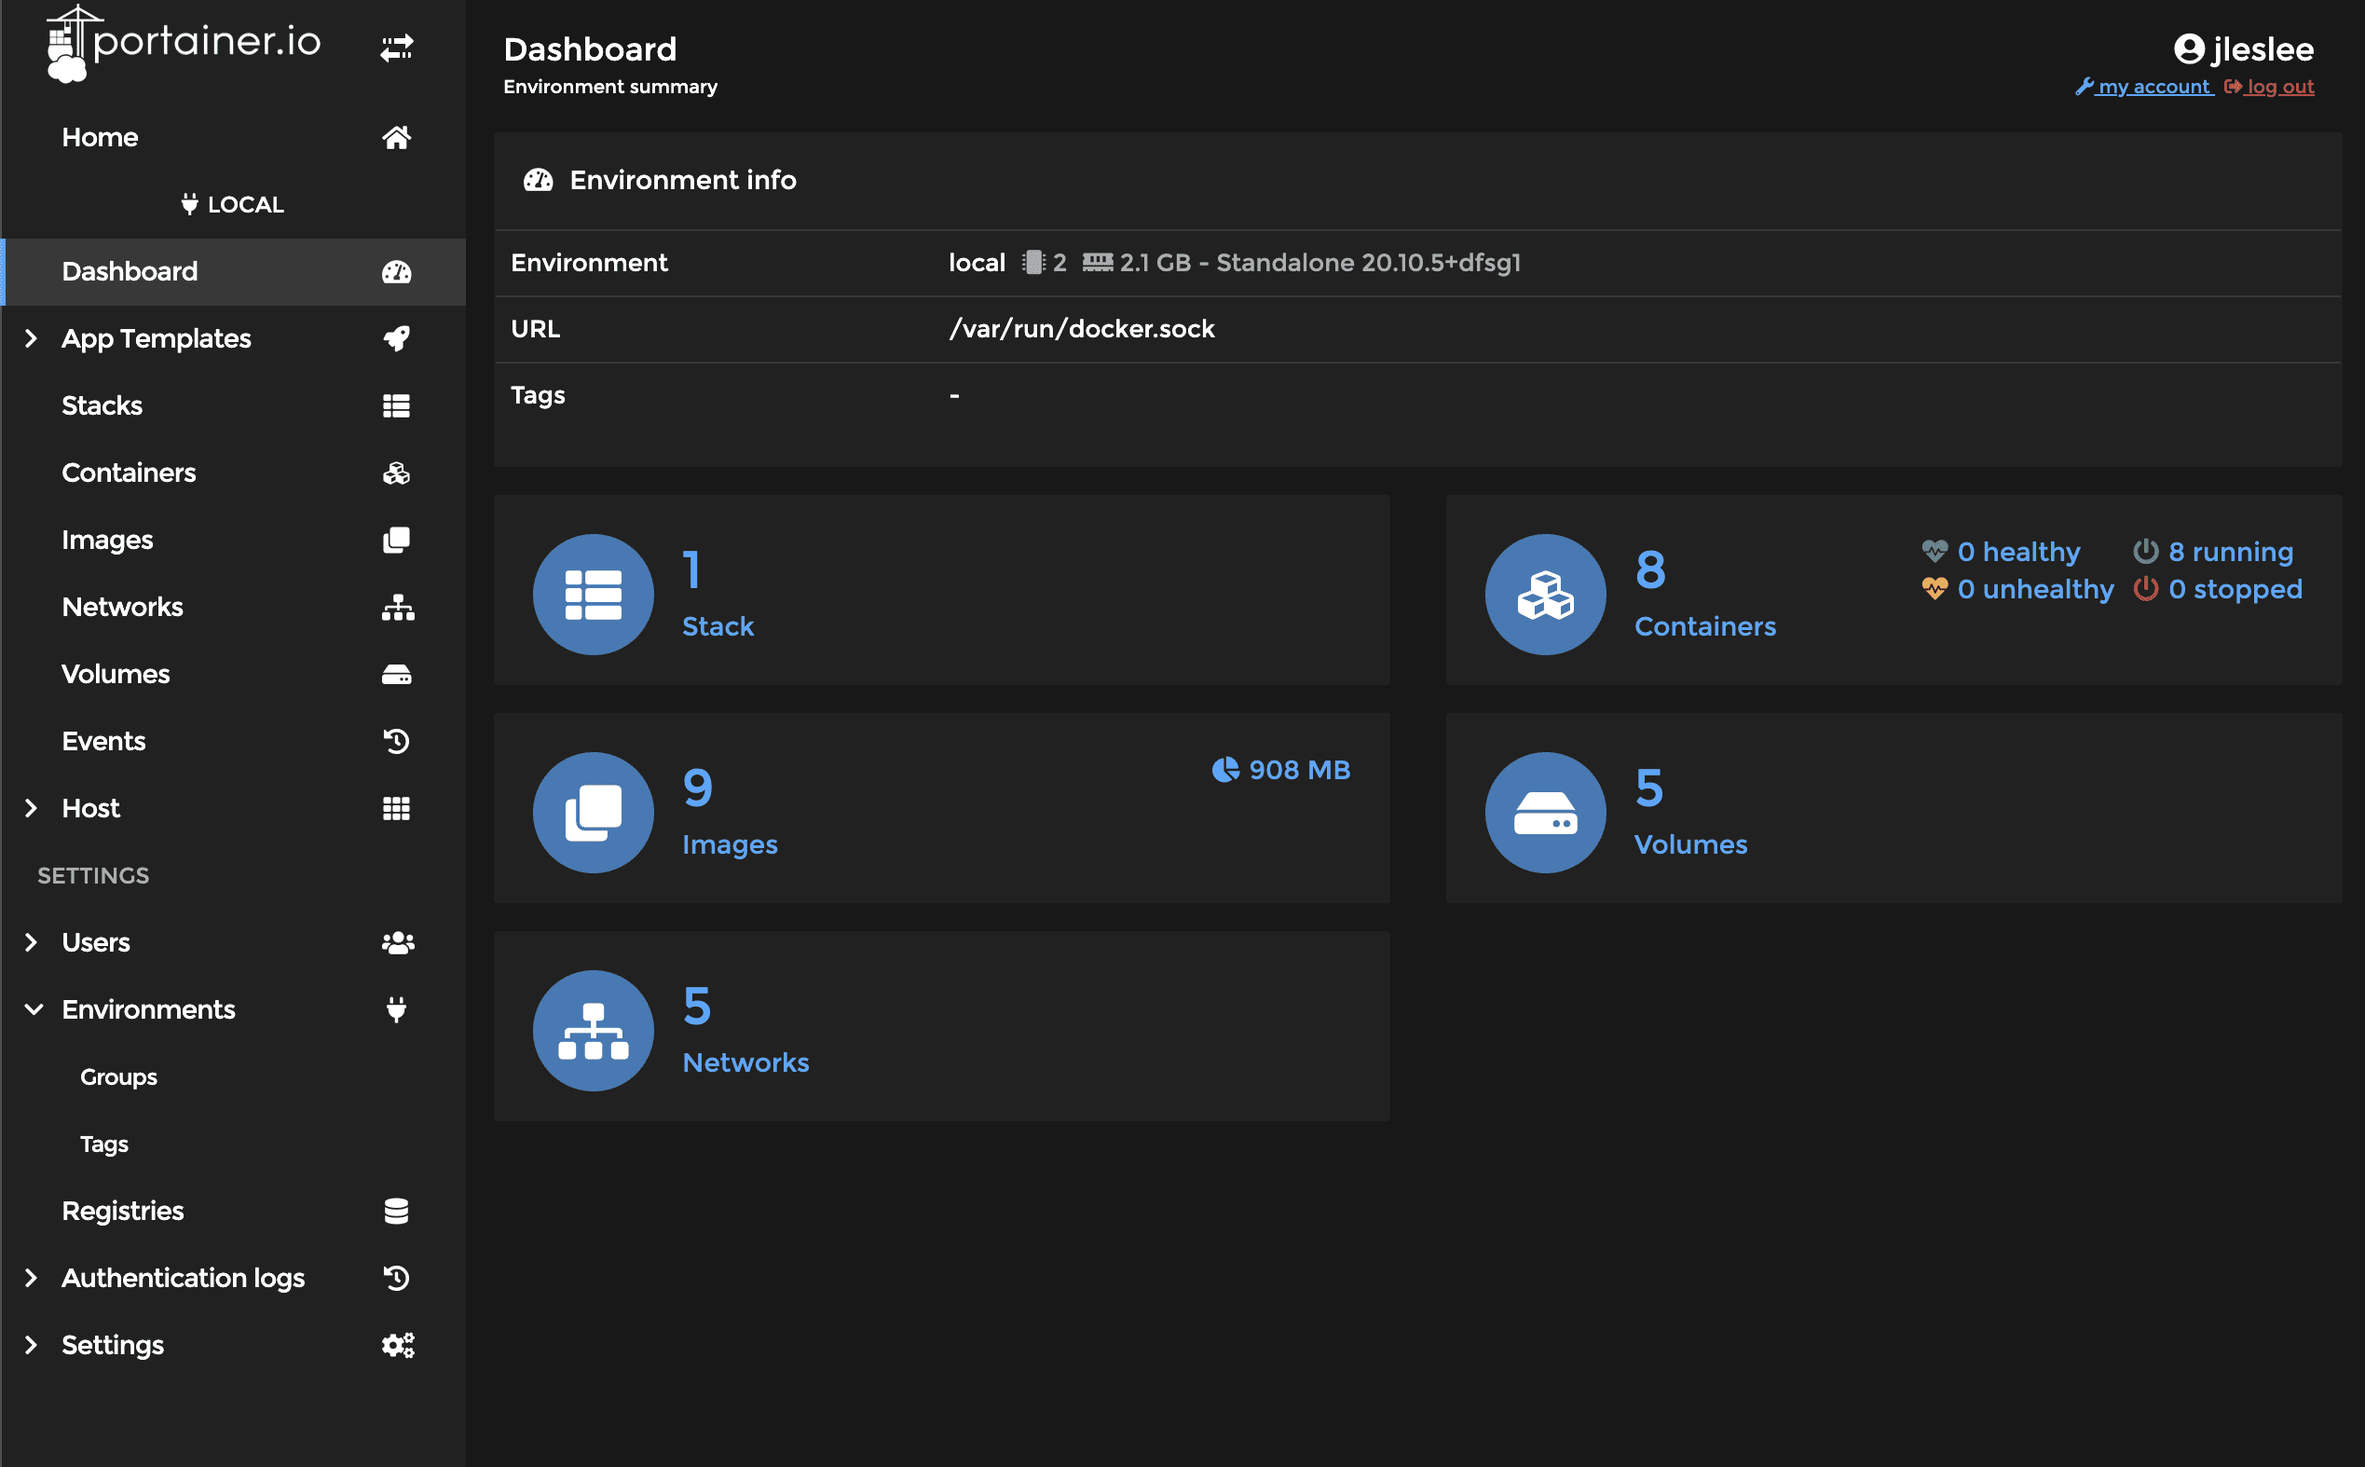
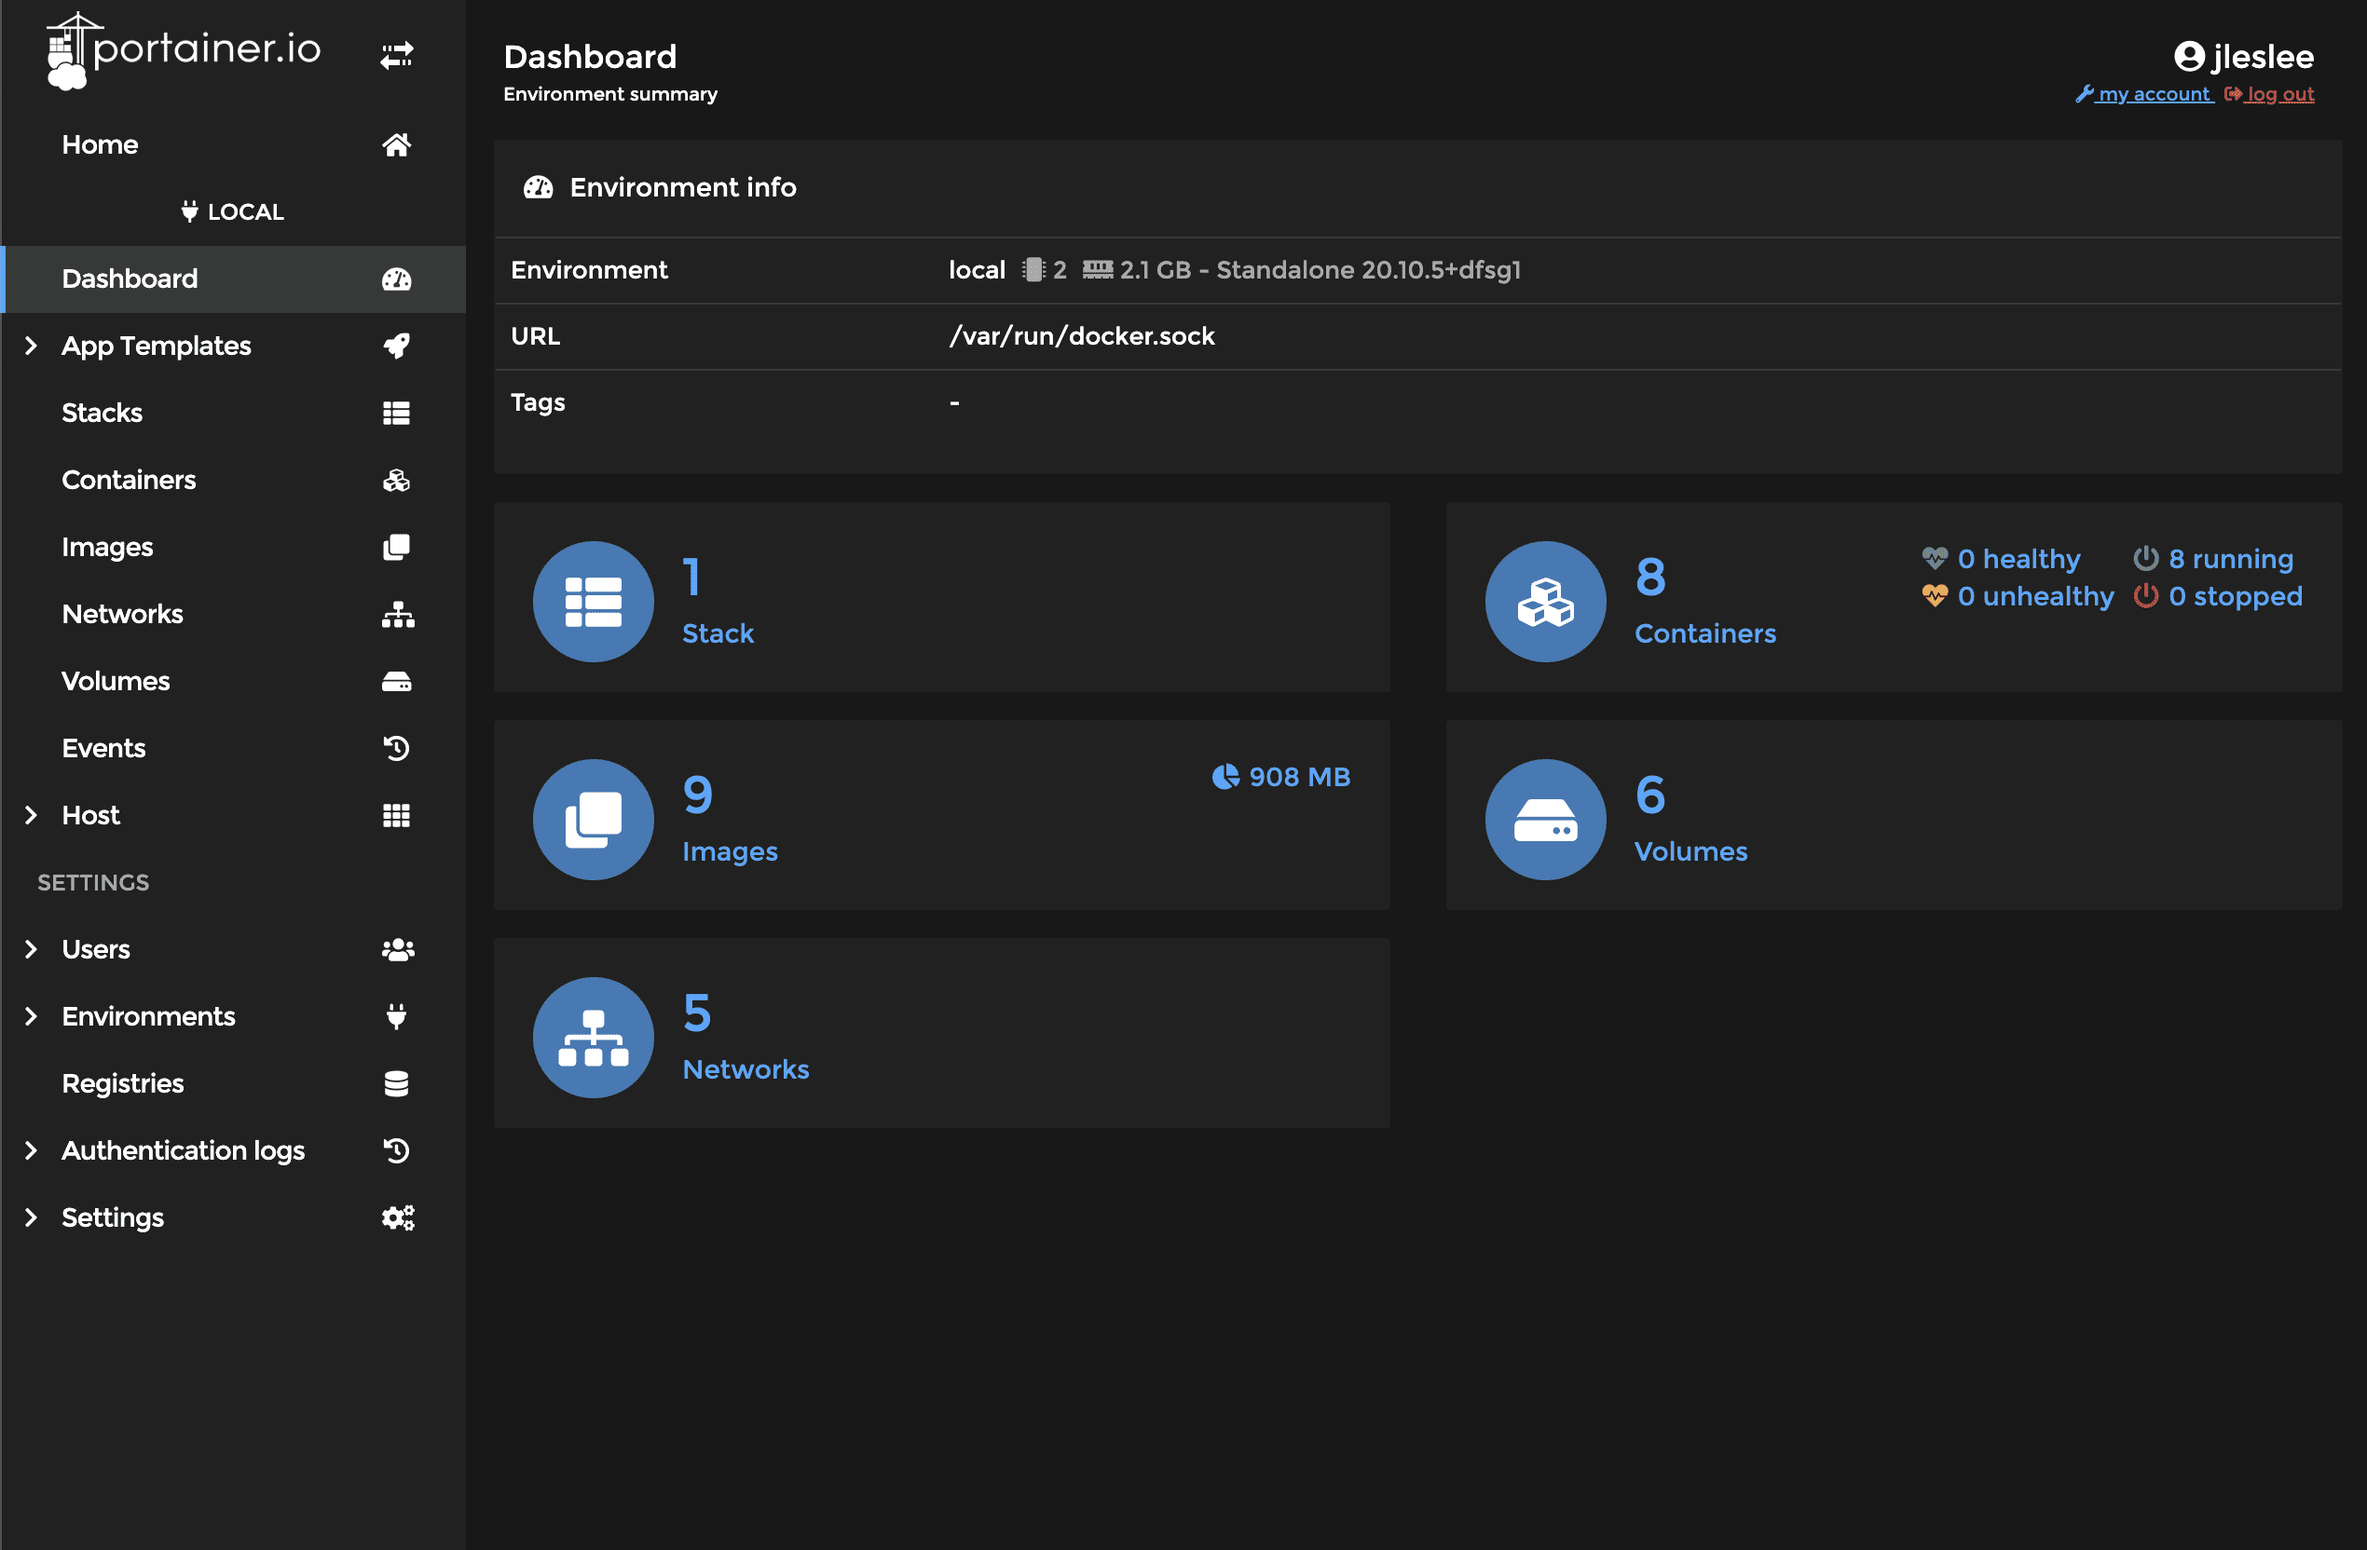
portainer

diff --git a/13_PORTAINER_INSTALL.md b/13_PORTAINER_INSTALL.md
@@ -88,12 +88,14 @@ docker run -d -p 8000:8000 -p 9443:9443 --name portainer --restart=always -v /va
 - 1 Стэк (один docker-compose файл)
 - 8 Контейнеров (7 контейнеров проекта и 8-й - сам portainer)
 - 9 Образов (alpine:3.16 многократно переиспользуется, потому вынесен отдельным образом)
-- 5 Разделов (3 системных для docker, раздел wp-wolume и раздел portainer_data)
+- 6 Разделов (3 системных для docker, разделы wp-wolume db-volume и раздел portainer_data)
 - 5 Сетей (3 системных + дефолтная сеть проекта + наша, созданная вручную сеть inception)
 
 Всем этим можно управлять прямо из portainer. Так же можно создавать новые контейнеры, менять старые, запускать целые docker-compose конфигурации - в общем, управлять нашим контейнерным зоопарком так, как душе угодно. Portainer даёт возможность управлять всеми возможностями docker-а через графический интерфейс.
 
 ![настройка vsftpd](media/stickers/pechkin.png)
+
+Но это уже совсем другая история...
 
 ## ИТОГИ
 
